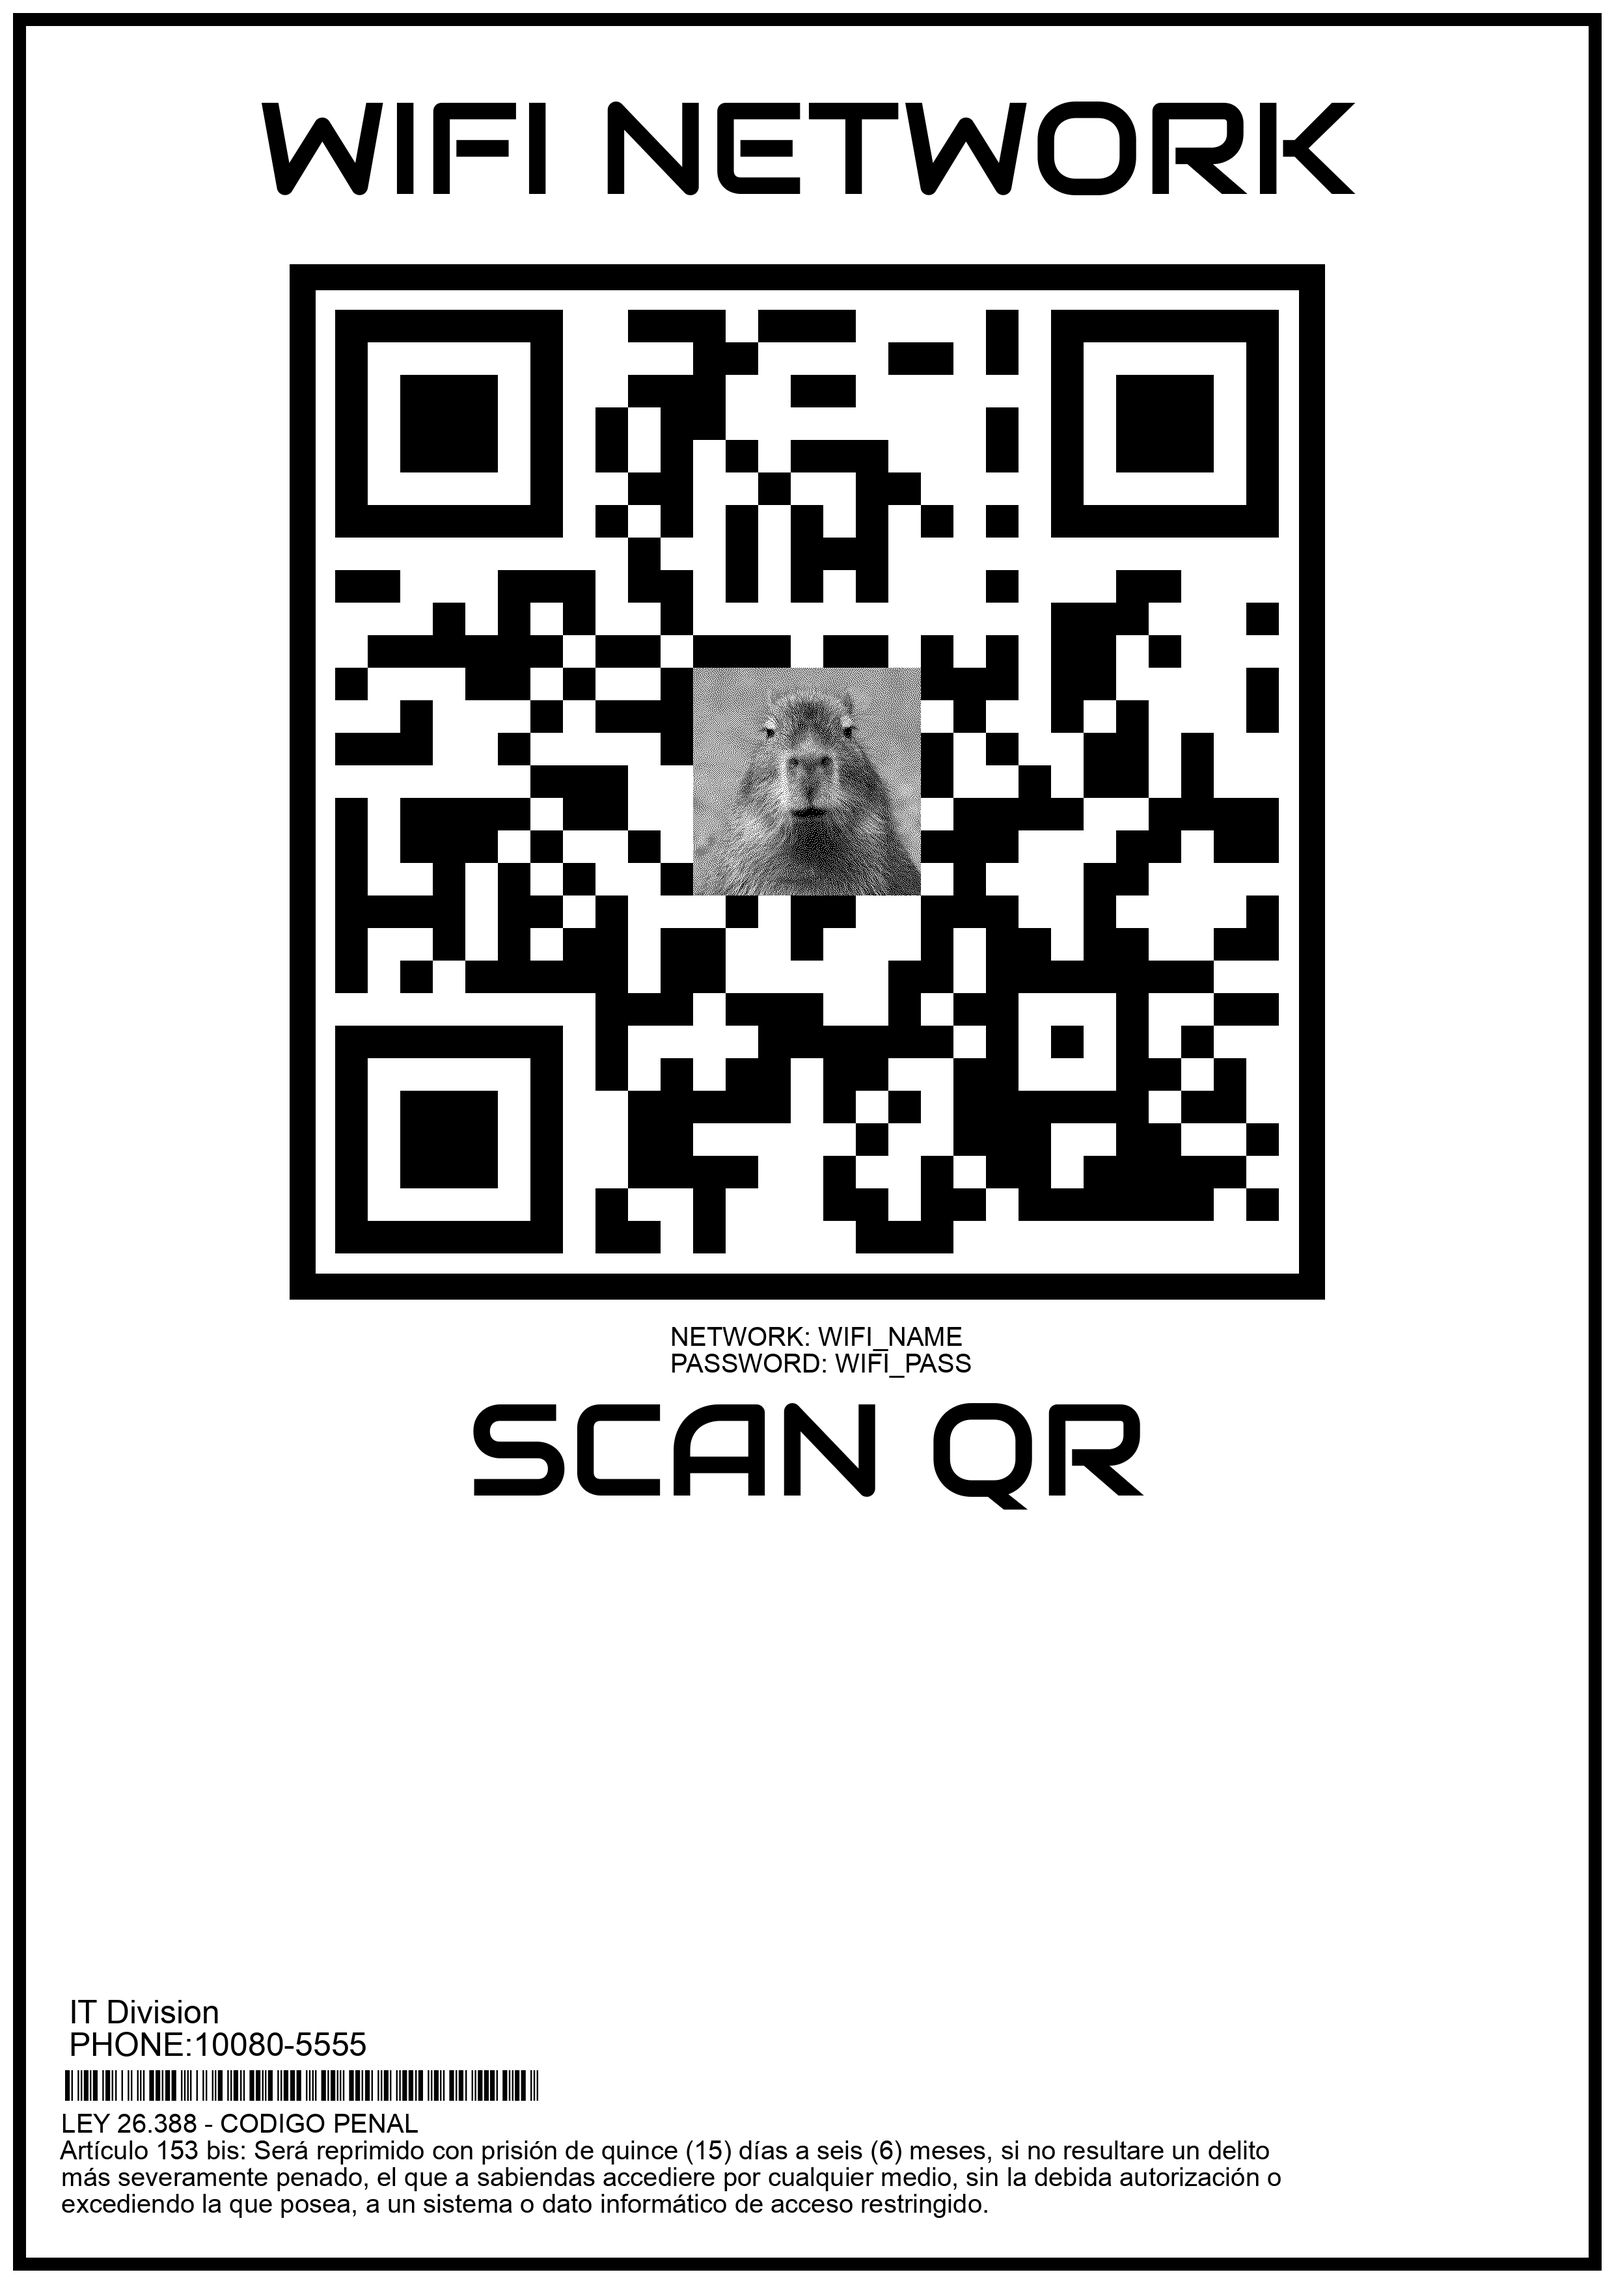
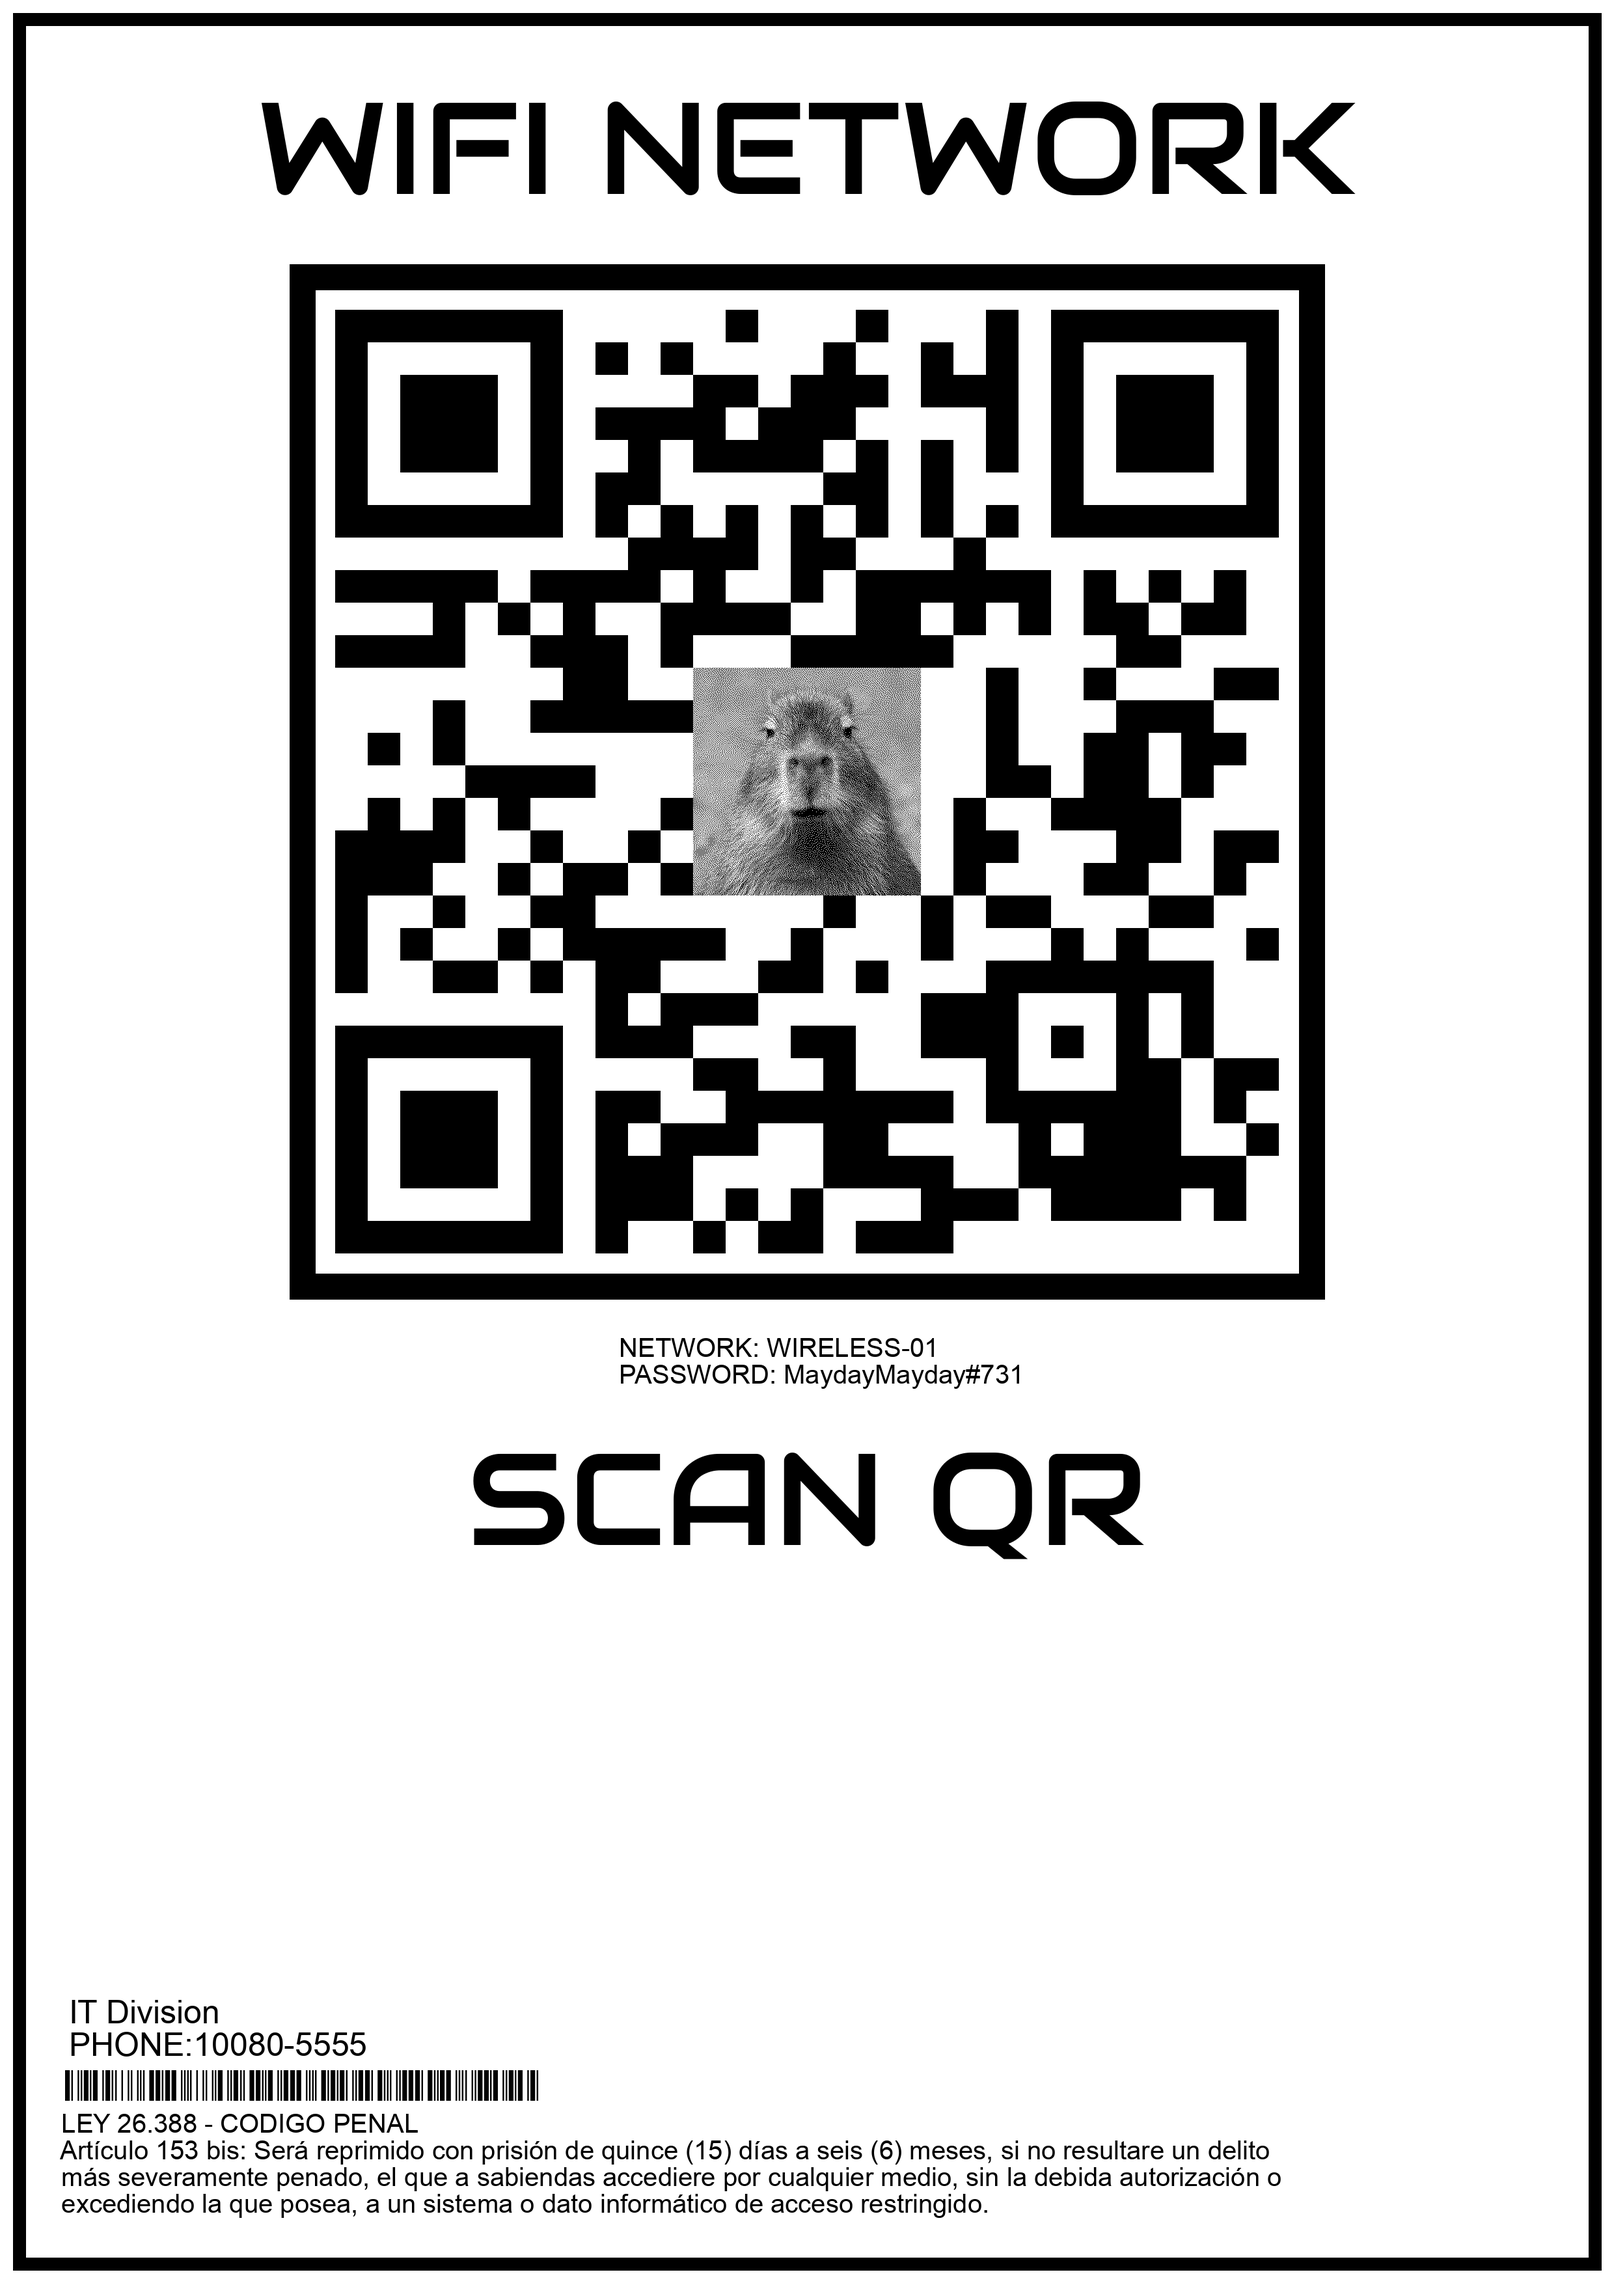
responsive text v1

Changed region(s): [[0.1863, 0.1243, 0.8073, 0.6836], [0.3105, 0.9011, 0.3415, 0.9322], [0.2484, 0.9011, 0.2794, 0.9322]]

diff --git a/main.py b/main.py
@@ -10,7 +10,7 @@ BASE_DIR = Path(__file__).resolve().parent.parent
 # Wifi credentials
 ssid = "WIFI_NAME"
 security_protocol = "WPA;WPA2"
-password = "WIFI_PASS"
+password = "WIFI_PASSWORD"
 
 # Text
 text1 = "WIFI NETWORK"
@@ -73,7 +73,9 @@ a4_height = 3508
 img_a4 = Image.new("RGB", (a4_width, a4_height), color=(255, 255, 255))
 
 # Insert the QR code in the center
-img_a4.paste(img_qr, (img_a4.size[0] // 2 - img_qr.size[0] // 2, img_a4.size[1] // 6 - img_qr.size[1] // 6))
+qr_x = (img_a4.size[0] - img_qr.size[0]) // 2
+qr_y = (img_a4.size[1] - img_qr.size[1]) // 6
+img_a4.paste(img_qr, (qr_x, qr_y))
 
 # add text
 font = ImageFont.truetype(os.path.join(BASE_DIR, "qr/fonts/Audiowide-Regular.ttf"), 200)
@@ -88,18 +90,13 @@ text1_width, text1_height = draw.textsize(text1, font)
 text2_width, text2_height = draw.textsize(text2, font)
 credentials_width, credentials_height = draw.textsize(credentials, credentials_font)
 
-x1 = (a4_width - text1_width) // 2
-y1 = (a4_height - text1_height) // 2
+# text coordinates
+x = img_a4.size[0] // 2 # center x
+y = qr_y + img_qr.size[1] + 50
 
-x2 = (a4_width - text2_width) // 2
-y2 = (a4_height - text2_height) // 2
-
-x_credentials = (a4_width - credentials_width) // 2
-y_credentials = (a4_height - credentials_height) // 2
-
-draw.text((x1, 100), text1, fill=(0, 0, 0), font=font)
-draw.text((x2, 2100), text2, fill=(0, 0, 0), font=font)
-draw.text((x_credentials, 1990), credentials, fill=(0, 0, 0), font=credentials_font)
+draw.text((x, 100), text1, fill=(0, 0, 0), font=font, anchor="ma")
+draw.text(((x, y)), text2, fill=(0, 0, 0), font=font, anchor="ma")
+draw.text((x, y), credentials, fill=(0, 0, 0), font=credentials_font, anchor="md")
 draw.text((50, 3220), footer, fill=(0, 0, 0), font=footer_font, anchor="ld")
 
 # date bar code
